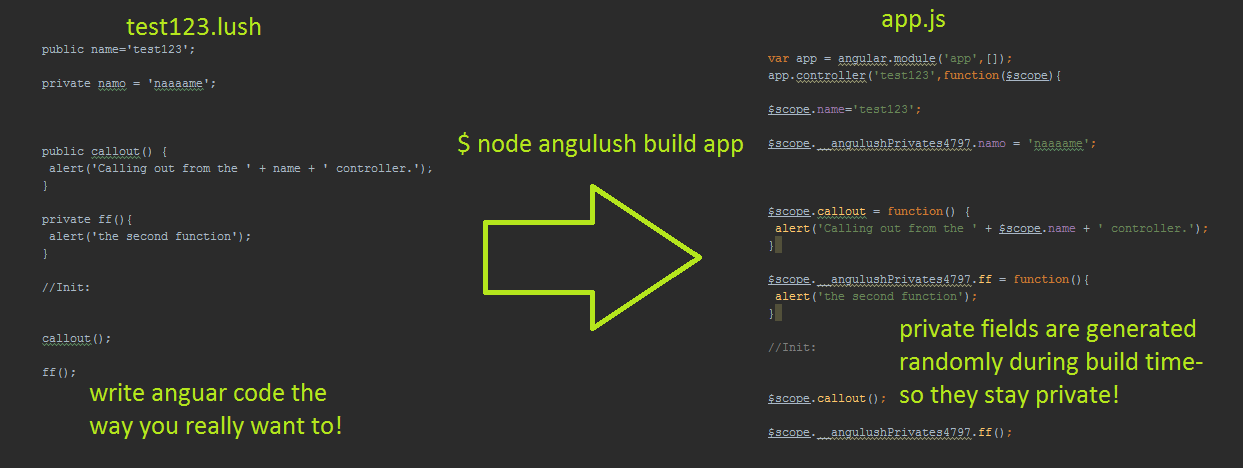
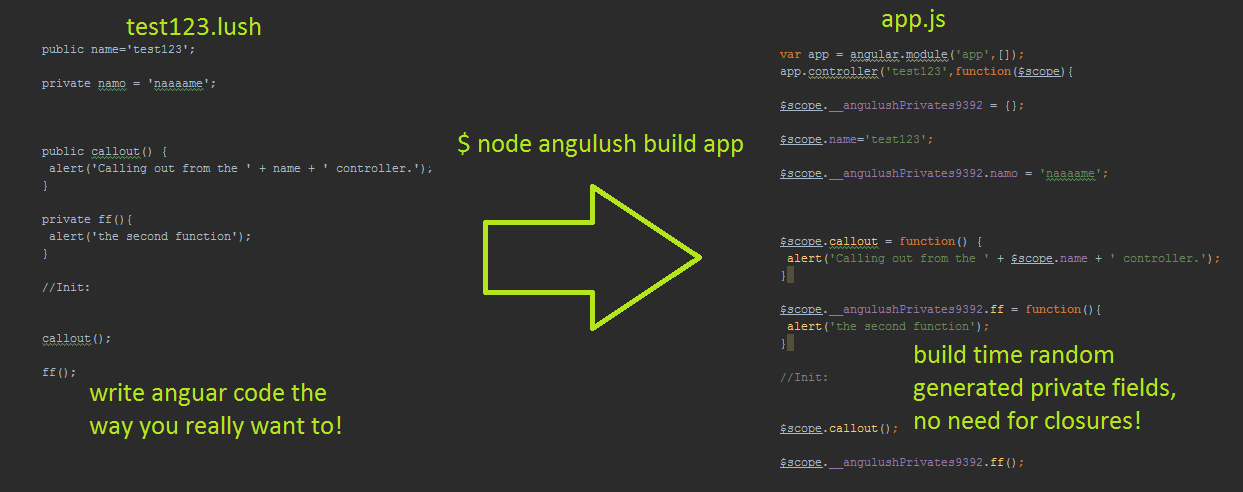
.

diff --git a/compiled/app.js b/compiled/app.js
@@ -1,9 +1,11 @@
 var app = angular.module('app',[]);
 app.controller('test123',function($scope){
 
+$scope.__angulushPrivates9392 = {};
+
 $scope.name='test123';
 
-$scope.__angulushPrivates4797.namo = 'naaaame';
+$scope.__angulushPrivates9392.namo = 'naaaame';
 
 
 
@@ -11,7 +13,7 @@ $scope.callout = function() {
  alert('Calling out from the ' + $scope.name + ' controller.');
 }
 
-$scope.__angulushPrivates4797.ff = function(){
+$scope.__angulushPrivates9392.ff = function(){
  alert('the second function');
 }
 
@@ -20,7 +22,9 @@ $scope.__angulushPrivates4797.ff = function(){
 
 $scope.callout();
 
-$scope.__angulushPrivates4797.ff();
+$scope.__angulushPrivates9392.ff();
+
+
 
 });
 

diff --git a/angulush.js b/angulush.js
@@ -10,6 +10,8 @@ function parseController(controllerText){
     //each generation of controller gets a private key
     var privateKey = '__angulushPrivates' + Math.floor(Math.random() * 10000).toString();
 
+    controllerText = '$scope.' + privateKey + ' = {};\n\n' + controllerText;
+
 
     var varFieldRegex = /public\s*([a-zA-Z\d]+)\s*=/;
     var varMethodRegex = /public\s+([a-zA-Z\d]+)\(/;
